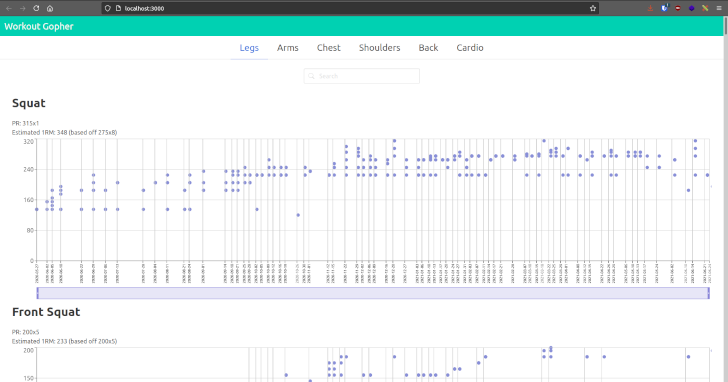
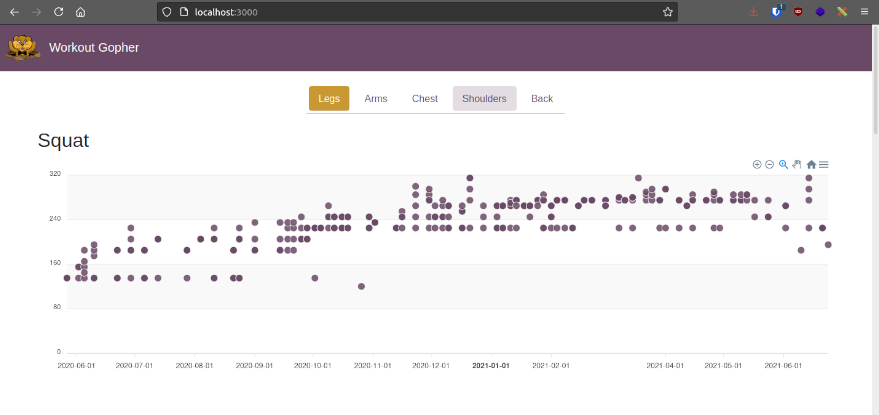
Update workout-gopher post redesign

diff --git a/src/data/projects.js b/src/data/projects.js
@@ -44,8 +44,8 @@ export default [
         image: 'workout-gopher.png',
         description: 'React webapp that reads workout history from a Google Sheet and graphs it for easy gains tracking.',
         tags: [
-            'React',
-            'Recharts',
+            'Vue',
+            'ApexCharts',
             'Google Sheets API',
         ],
         links: [
